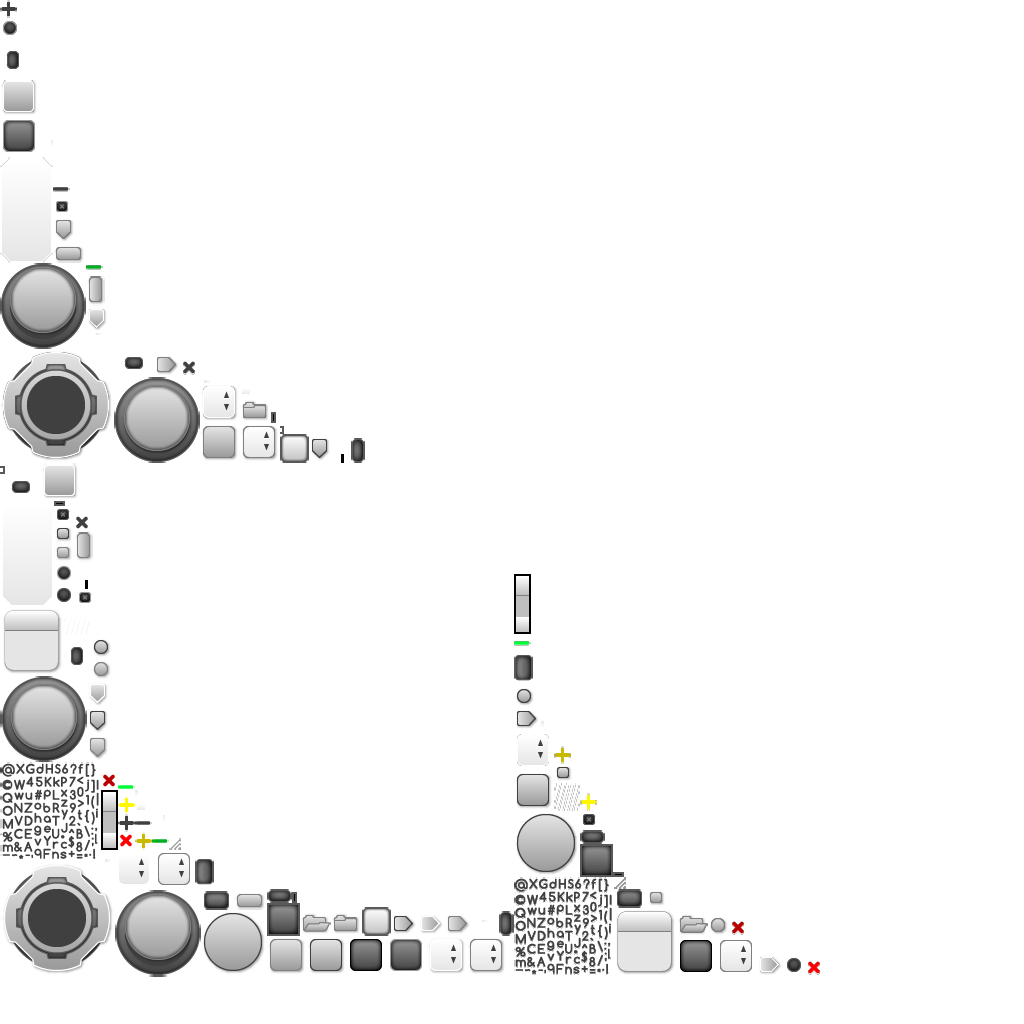
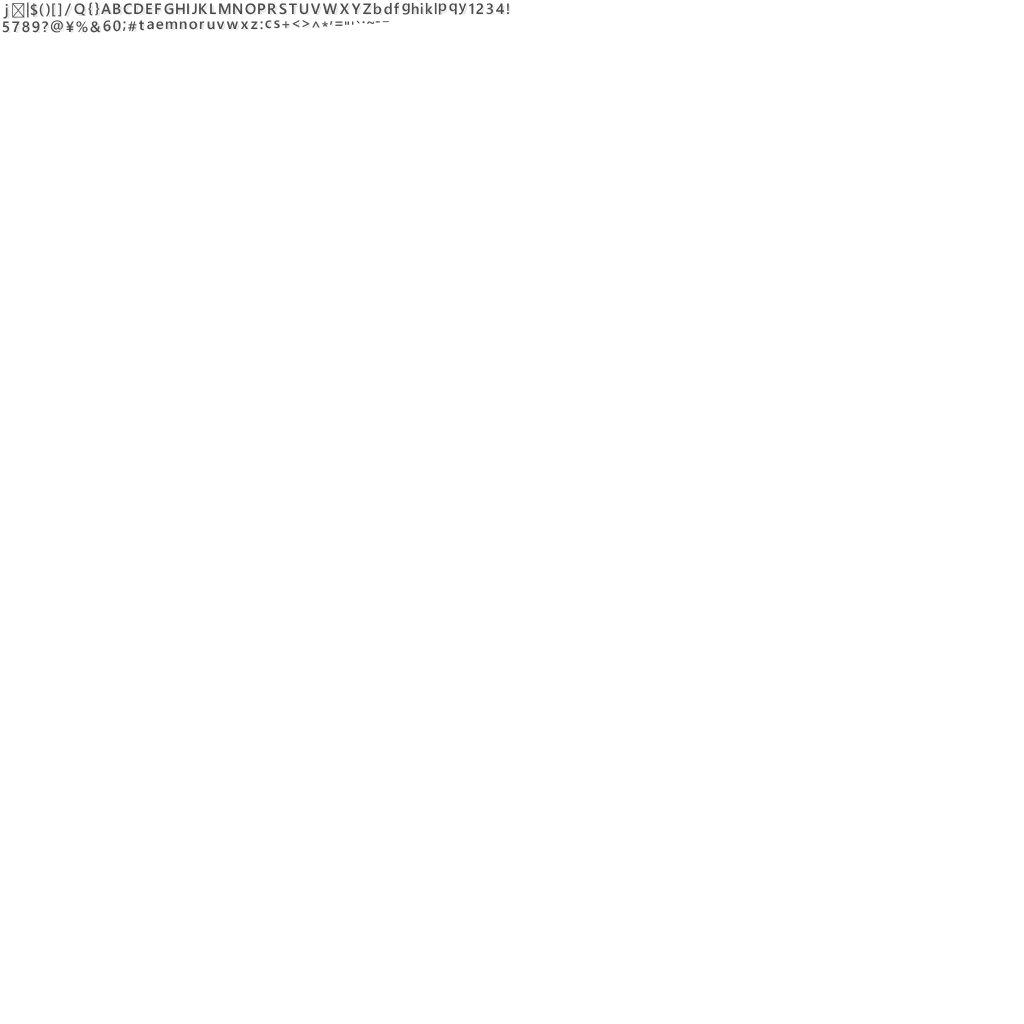
new skin for Register page

Changed region(s): [[0.0, 0.1875, 0.8125, 0.9688], [0.0, 0.0, 0.5, 0.1562], [0.5, 0.5625, 0.5312, 0.7188]]

diff --git a/client/core/src/com/mygdx/game/screens/RegisterScreen.java b/client/core/src/com/mygdx/game/screens/RegisterScreen.java
@@ -114,7 +114,7 @@ public class RegisterScreen  implements Screen {
     @Override
     public void show() {
         stage.clear();
-        skin = new Skin(Gdx.files.internal("skin/glassy-ui.json"));
+        skin = new Skin(Gdx.files.internal("skin2/clean-crispy-ui.json"));
 
         //registerSound = Gdx.audio.newSound(Gdx.files.internal("data/BruceU.mp3"));
 
@@ -129,7 +129,7 @@ public class RegisterScreen  implements Screen {
         stage.addActor(table);
 
         //add label
-        label = new Label("Register new account", skin);
+        label = new Label("Register new account", skin, "banner");
 
         //add text fields login/password
         final TextField loginField = new TextField(null,skin);
@@ -142,11 +142,11 @@ public class RegisterScreen  implements Screen {
         final TextField retypePasswordField = new TextField("", skin);
         retypePasswordField.setPasswordCharacter('*');
         retypePasswordField.setPasswordMode(true);
-        retypePasswordField.setMessageText("Retype your password");
+        retypePasswordField.setMessageText("Retype password");
 
         //add buttons to table
         TextButton register = new TextButton("Register", skin);
-        TextButton back = new TextButton("Back", skin, "small");
+        TextButton back = new TextButton("Back", skin);
 
 
         //add listeners to buttons

diff --git a/client/core/src/com/mygdx/game/screens/LoginScreen.java b/client/core/src/com/mygdx/game/screens/LoginScreen.java
@@ -69,7 +69,7 @@ public class LoginScreen implements Screen{
 		// Create a table that fills the screen. Everything else will go inside this table.
 		Table table = new Table();
 		table.setFillParent(true);
-		//table.setDebug(true);
+//		table.setDebug(true);
 
 		stage.addActor(table);
 
